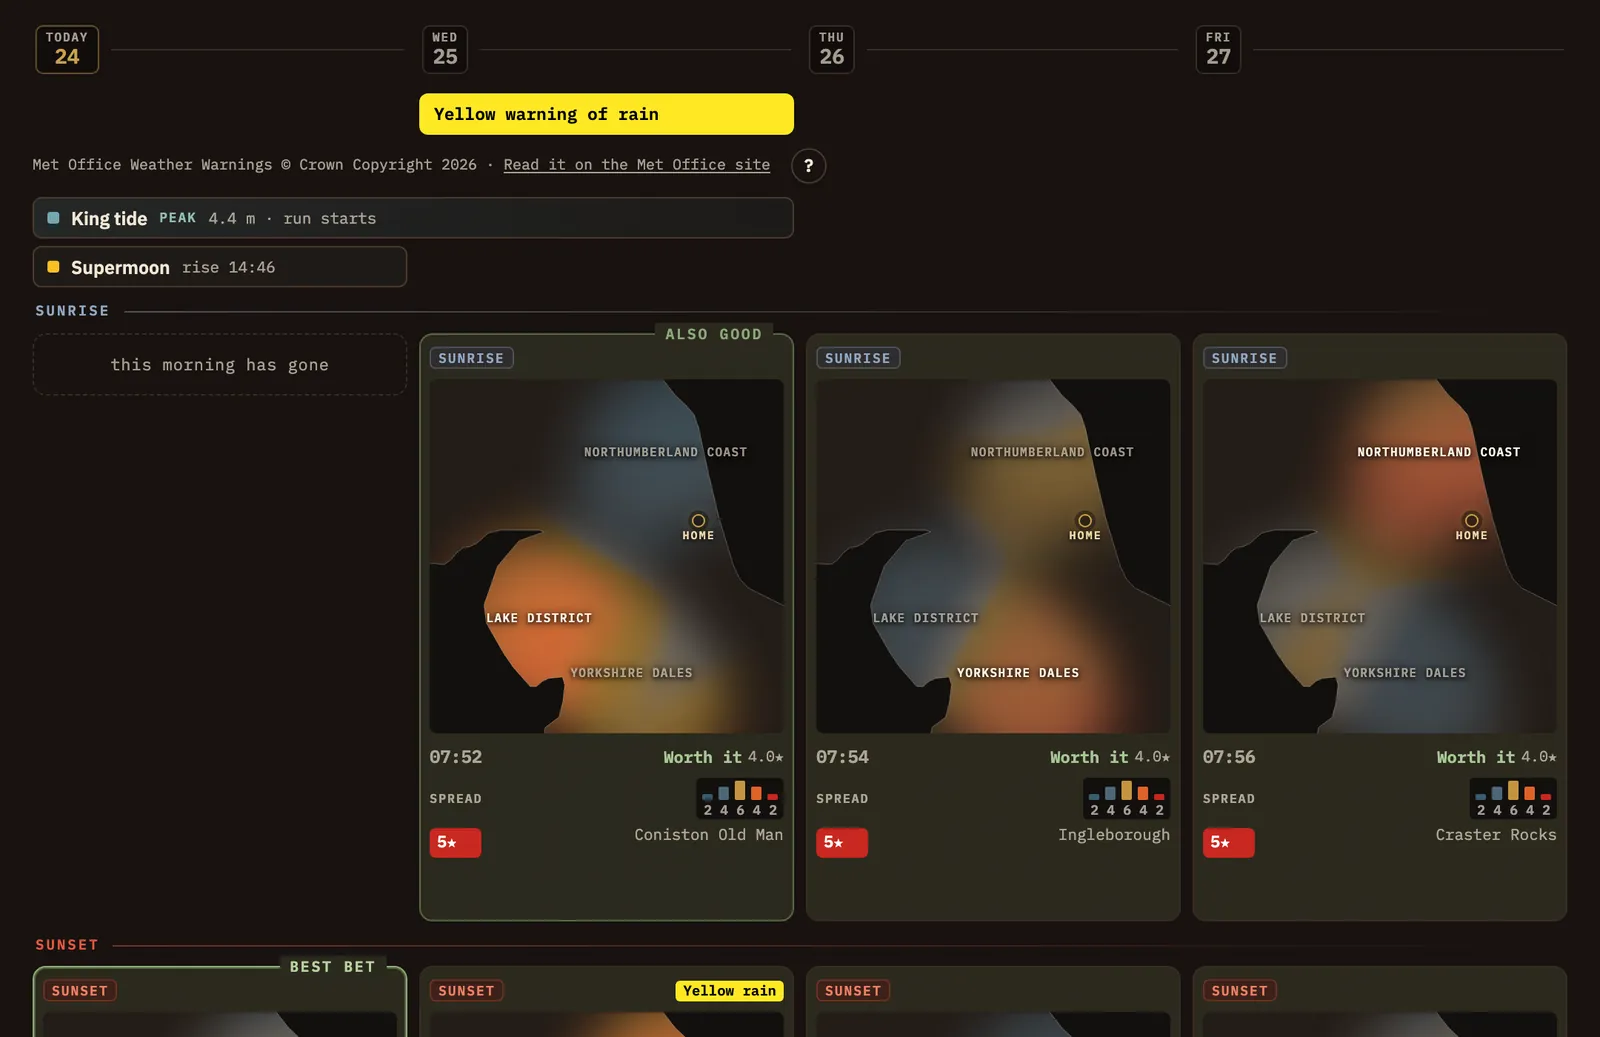
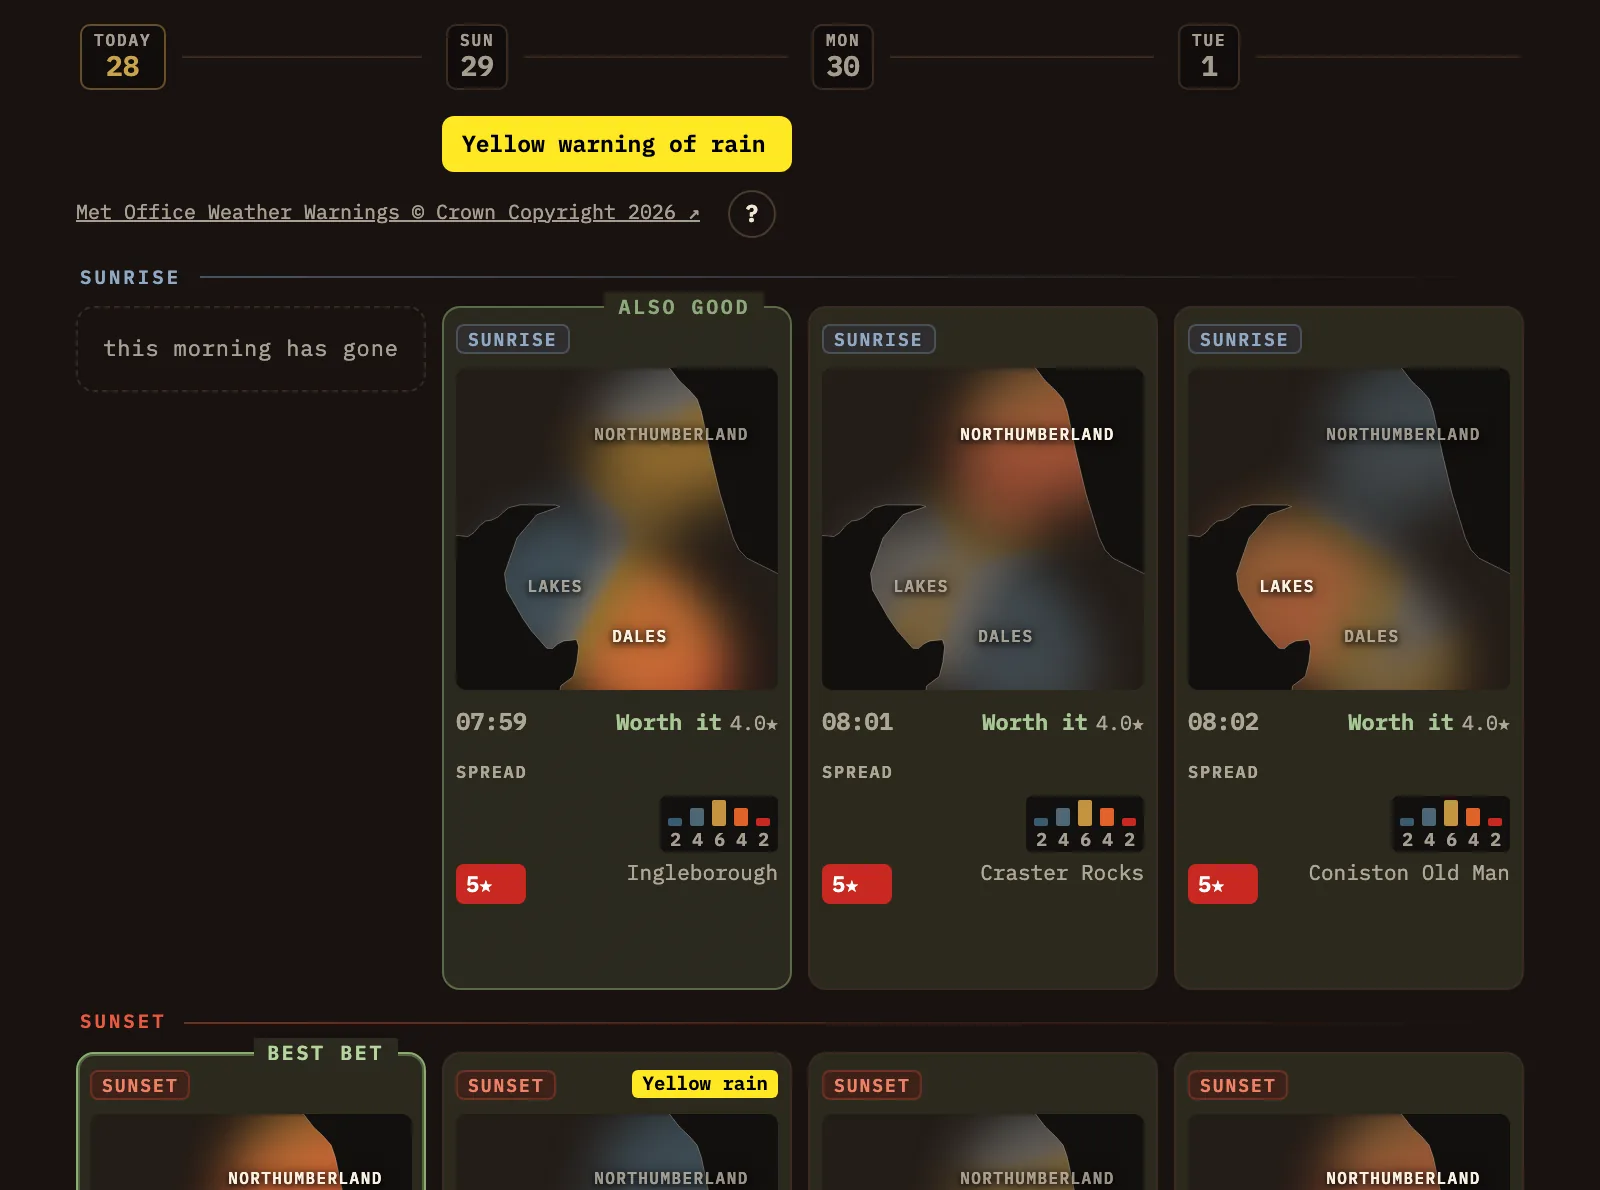
docs: retake the guide's warning shots for the map warning row

diff --git a/landing/guide/map.html b/landing/guide/map.html
@@ -157,8 +157,9 @@
 <li>The chips follow the window control. They appear for a sunrise or sunset and not for a night, high-water or past window.</li>
 <li>The map card for a location also carries a chip when a warning covers that location.</li>
 <li>The map draws no warning outlines or shading, and a warning never changes a star rating, a verdict or the colours on the map.</li></ul>
-<figure class="shot wide" id="shot-warn-map-chips"><img src="shots/warn-map-chips.webp" width="1600" height="617" alt="The map for tomorrow's 15:49 sunset in the Lake District, with a Yellow warning of rain shown as a row under the No hot topics on this window chip, its time and a chevron, and the Met Office Weather Warnings Crown Copyright credit beneath it, which links to the Met Office site."><figcaption>The warning row for the sunrise you are looking at. It sits under the topic chips, and the map itself carries no warning outlines.</figcaption></figure>
-<figure class="shot" id="shot-warn-callout"><img src="shots/warn-callout.webp" width="576" height="412" alt="The map card for Haweswater in the Lake District for tomorrow's 15:49 sunset, rated 5 stars, Worth it, with a Yellow warning of rain chip below it and the Met Office Weather Warnings Crown Copyright credit."><figcaption>The same warning as a chip on a location's map card.</figcaption></figure>
+<figure class="shot wide" id="shot-warn-map-chips"><img src="shots/warn-map-chips.webp" width="1600" height="617" alt="The map for tomorrow's 15:42 sunset in the Lake District, with a box under the No hot topics on this window chip holding one closed warning row: Yellow warning of rain, Sun 13:53–17:55 and a chevron pointing down. Under the row, the Met Office Weather Warnings Crown Copyright 2026 credit, which is itself the link to the Met Office site, and a question mark."><figcaption>The warning row for the sunset you are looking at, closed. It sits under the topic chips, and the map itself carries no warning outlines.</figcaption></figure>
+<figure class="shot wide" id="shot-warn-map-open"><img src="shots/warn-map-open.webp" width="1600" height="1142" alt="The same map with the warning row open in place and its chevron pointing up. Under the row: Valid Sun 29 Nov, 13:53 to Sun 29 Nov, 17:55 (UK time), the headline Heavy rain may cause travel disruption across the Lake District, What to expect, What should I do and the start of Further details, with the likelihood and impact matrix beside them, with one square ticked. The Met Office credit link and the question mark stay at the foot of the box."><figcaption>The same row opened. The full warning opens right under it; press the row again, or Escape, to close it.</figcaption></figure>
+<figure class="shot" id="shot-warn-callout"><img src="shots/warn-callout.webp" width="572" height="392" alt="The map card for Haweswater in the Lake District for tomorrow's 15:42 sunset, rated 5 stars, Worth it, with a Yellow warning of rain chip below it and the Met Office Weather Warnings Crown Copyright 2026 credit, which is itself the link to the Met Office site, followed by a question mark."><figcaption>The same warning as a chip on a location's map card.</figcaption></figure>
 <p>If PhotoCast has not been able to check the Met Office lately, a line above the credit says how long ago it last did and that what you see may be out of date. The lack of a warning is never an all-clear, so check the Met Office before you travel.</p>
 </section>
 <section class="g-sec" id="tips"><h2>Tips</h2>

diff --git a/landing/guide/planning.html b/landing/guide/planning.html
@@ -228,7 +228,7 @@
 <li><b>A marker on the card.</b> A card shows the strongest warning that applies to that sunrise or sunset as the level word and the first weather type, for example <span class="ui">Amber snow +1</span>, where <span class="ui">+1</span> is one more warning. The lanes above the cards give the full wording.</li>
 <li><b>An entry in Further ahead.</b> A warning that reaches beyond the days in This week has its own entry on the day it starts, tagged <span class="ui">Met Office warning</span>. A warning that falls wholly inside the days in This week is shown there instead. The entry names the level and weather type, with <span class="ui">Updated</span> if the Met Office has issued a newer version. If the level has gone up in the last 24 hours it also says <span class="ui">Raised from Amber</span> (or whichever level it was), and a raised warning is listed first on its day. Open the entry for the warning in full. A warning entry has no filter chip of its own, so look for it under <span class="ui">All</span>.</li></ul>
 <p>For the full warning, open that sunrise or sunset on the <a href="map.html">map</a> and press the warning's row: the headline, what to expect, what to do, when it is valid and how many places in each area it covers, with the Met Office's likelihood and impact matrix (<a href="map.html#warnings">more on the map</a>).</p>
-<figure class="shot wide" id="shot-warn-lanes"><img src="shots/this-week-warning.webp" width="1600" height="1037" alt="This week with a Yellow warning of rain lane across Wednesday, the King tide and Supermoon lanes under it, sunrise cards, and a Yellow rain marker on the corner of a sunset card."><figcaption>A warning lane across the days it applies to, with the level written as a word, and the marker on a card below it.</figcaption></figure>
+<figure class="shot wide" id="shot-warn-lanes"><img src="shots/this-week-warning.webp" width="1600" height="1190" alt="This week with a Yellow warning of rain lane across Sunday, the Met Office Weather Warnings Crown Copyright 2026 credit under it as a link, with a question mark, then the sunrise cards, and a Yellow rain marker on the corner of Sunday's sunset card."><figcaption>A warning lane across the days it applies to, with the level written as a word, and the marker on a card below it.</figcaption></figure>
 <figure class="shot" id="shot-warn-coming-up"><div class="ph"><span>Screenshot · A Further ahead entry tagged Met Office warning, with Raised from and Updated, level and weather type</span></div><figcaption>A warning entry on the day it starts, showing that its level has been raised and that a newer version has been issued.</figcaption></figure>
 <p>Under the lanes a small line credits the Met Office and links to its warnings page. If PhotoCast has not been able to check the Met Office lately, that line, and a line at the top of Further ahead, say when it last did, and what you see may be out of date. Nothing here ever means "no warnings": the lack of a warning is not an all-clear, so check the Met Office before you travel.</p>
 </section>

diff --git a/docs/engineering/weather-warnings-screenshots.md b/docs/engineering/weather-warnings-screenshots.md
@@ -21,6 +21,7 @@ page links to it. `frontend/src/test/guideShotPlaceholders.test.js` pins the ids
 | `shot-warn-stale` | weather-warnings.html (#fresh) | The line "Warnings last checked HH:MM — check the Met Office" under the warning area | Desktop; needs the feed unreachable for about ten minutes (stop the poller or block the feed host) |
 | `shot-warn-ask` | weather-warnings.html (#where) | An Ask answer that carries a warning card with dates and the Met Office credit | Desktop with Ask open beside the Map; 375px phone if it reads better |
 | `shot-warn-map-chips` | map.html (#warnings) | The chip row under the topic chips for a sunrise or sunset window | Desktop Map; 375px phone as an alternate |
+| `shot-warn-map-open` | map.html (#warnings) | The same row opened in place: validity, headline, what to expect, the matrix and the credit | Desktop Map |
 | `shot-warn-callout` | map.html (#warnings) | A location callout carrying a warning chip | Desktop Map |
 | `shot-warn-coming-up` | coming-up.html (#warnings) | A "Met Office warning" entry showing "Raised from ..." and "Updated" | Desktop Coming up |
 

diff --git a/changelog.d/20261128-guide-warning-row-shots.md b/changelog.d/20261128-guide-warning-row-shots.md
@@ -1,0 +1,7 @@
+### Docs — guide screenshots for the map warning row
+
+The user guide's warning screenshots now show the design from the map warning row change: the closed row on the
+map (`warn-map-chips.webp`), a new shot of the row open in place (`warn-map-open.webp`), the map card with the
+one-link credit (`warn-callout.webp`), and the This week lane and credit (`this-week-warning.webp`). The credit line
+in `this-week-days.webp` was replaced with the current one. All are from a development build with the seeded
+illustrative warning, not a real forecast or a real Met Office warning.
